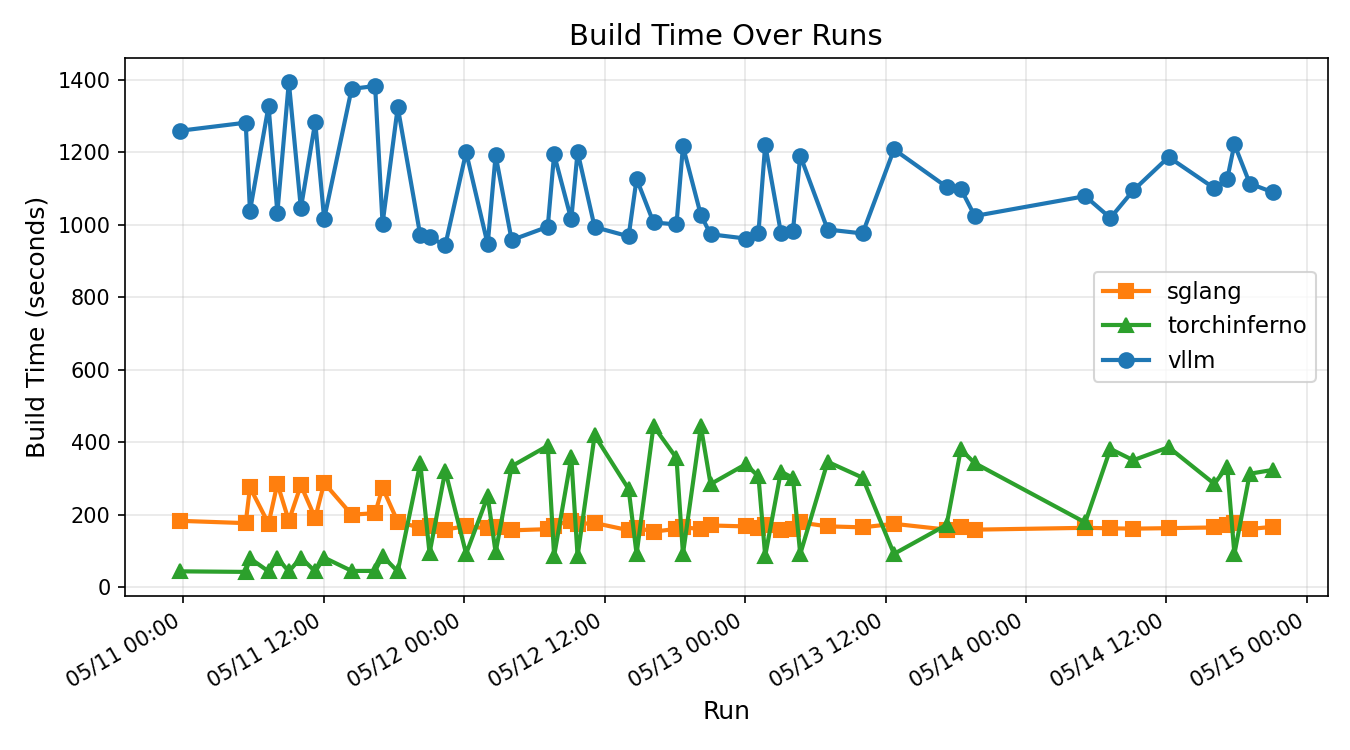
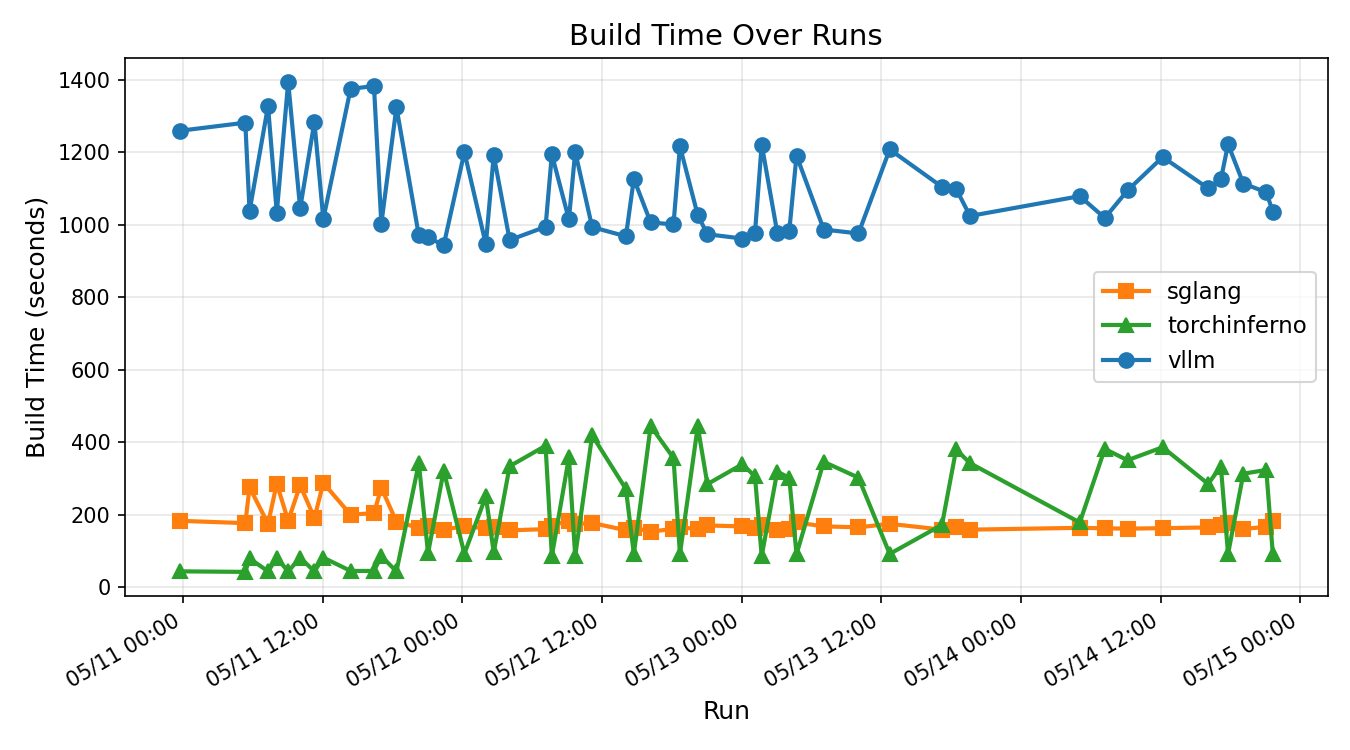
Benchmark run 20260514_143946

diff --git a/results/v1/meta-llama--Meta-Llama-3.1-70B-Instruct/8xH100/runs/20260514_213924/summary.md b/results/v1/meta-llama--Meta-Llama-3.1-70B-Instruct/8xH100/runs/20260514_213924/summary.md
@@ -1,0 +1,34 @@
+# Benchmark Summary
+
+- **Model:** meta-llama/Meta-Llama-3.1-70B-Instruct
+- **TP:** 8
+- **Hardware:** 8xH100
+- **Timestamp:** 2:14 PM PT, May 14 2026
+
+## Scorecard
+
+| Benchmark | torchinferno | vllm | sglang |
+| :-------- | -----------: | ---: | -----: |
+| **Total** |          0/0 |  0/0 |    0/0 |
+
+Each cell = metric wins out of 4 (TTFT, TPOT, E2E, throughput). **Bold** = best in row.
+
+## Build Times
+
+| Provider     |             Time |    Commit |
+| :----------- | ---------------: | --------: |
+| torchinferno | **89.9s (1.5m)** | `6cf1f72` |
+| vllm         |  1036.2s (17.3m) | `f887aa1` |
+| sglang       |    182.4s (3.0m) | `88d3ed7` |
+
+## Per-Benchmark Results
+
+## Cross-Benchmark Averages
+
+| Metric                    | torchinferno | vllm | sglang |
+| :------------------------ | -----------: | ---: | -----: |
+| TTFT median (ms)          |            - |    - |      - |
+| TPOT median (ms)          |            - |    - |      - |
+| E2E median (ms)           |            - |    - |      - |
+| Throughput median (tok/s) |            - |    - |      - |
+| Correctness               |            - |    - |      - |
